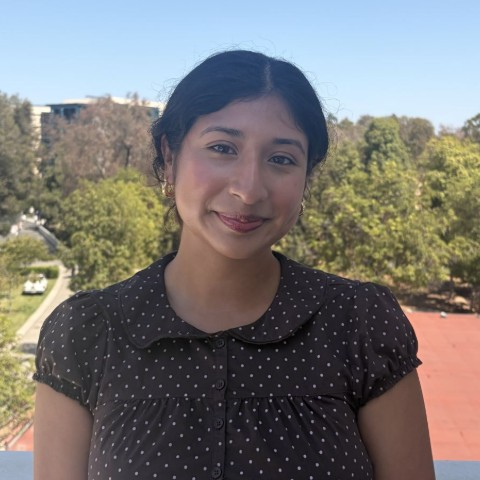
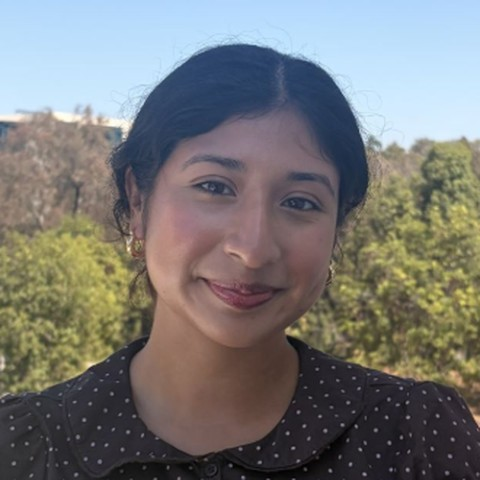
Add scroll and hover transitions, tighten headshot crop
Sections and cards fade up as they scroll into view, the intro
animates in with a stagger, and a scroll progress bar sits at the top.
Cards lift on hover, nav links get an animated underline, and all
motion respects prefers-reduced-motion.

Claude-Session: https://claude.ai/code/session_01RS5iu1uGnsRxJSgfibFL1p

diff --git a/src/App.jsx b/src/App.jsx
@@ -1,5 +1,6 @@
 import './App.css'
 import { FaGithub, FaLinkedin, FaEnvelope } from 'react-icons/fa'
+import { motion, MotionConfig, useScroll, useSpring } from 'framer-motion'
 
 const EMAIL = 'yamontan@uci.edu'
 const GITHUB = 'https://github.com/yanilettemontano'
@@ -163,13 +164,38 @@ const coursework = [
   },
 ]
 
+const reveal = {
+  hidden: { opacity: 0, y: 24 },
+  visible: { opacity: 1, y: 0, transition: { duration: 0.6, ease: [0.22, 1, 0.36, 1] } },
+}
+
+const stagger = {
+  hidden: {},
+  visible: { transition: { staggerChildren: 0.12, delayChildren: 0.1 } },
+}
+
+function Reveal({ as = 'div', children, ...props }) {
+  const Tag = motion[as]
+  return (
+    <Tag variants={reveal} initial="hidden" whileInView="visible" viewport={{ once: true, margin: '-80px' }} {...props}>
+      {children}
+    </Tag>
+  )
+}
+
 function Section({ id, num, title, children }) {
   return (
     <section id={id} className="section">
-      <h2><span className="section-num">{num}</span>{title}</h2>
+      <Reveal as="h2"><span className="section-num">{num}</span>{title}</Reveal>
       {children}
     </section>
   )
+}
+
+function ScrollProgress() {
+  const { scrollYProgress } = useScroll()
+  const scaleX = useSpring(scrollYProgress, { stiffness: 120, damping: 30 })
+  return <motion.div className="scroll-progress" style={{ scaleX }} />
 }
 
 function Tags({ items }) {
@@ -182,7 +208,8 @@ function Tags({ items }) {
 
 function App() {
   return (
-    <>
+    <MotionConfig reducedMotion="user">
+      <ScrollProgress />
       <header className="topbar">
         <div className="topbar-inner">
           <a href="#top" className="brand">Yanilette Montano</a>
@@ -193,32 +220,39 @@ function App() {
       </header>
 
       <main id="top" className="container">
-        <section className="hero">
-          <img src="/images/headshot.jpg" alt="Yanilette Montano" className="headshot" />
-          <div>
-            <h1>Yanilette Montano</h1>
-            <p className="subtitle">Computer Engineering · UC Irvine · Expected March 2028</p>
-            <p className="lede">
+        <motion.section className="hero" variants={stagger} initial="hidden" animate="visible">
+          <motion.img
+            src="/images/headshot.jpg"
+            alt="Yanilette Montano"
+            className="headshot"
+            initial={{ opacity: 0, scale: 0.85, rotate: -6 }}
+            animate={{ opacity: 1, scale: 1, rotate: 0 }}
+            transition={{ duration: 0.8, ease: [0.22, 1, 0.36, 1] }}
+          />
+          <motion.div variants={stagger}>
+            <motion.h1 variants={reveal}>Yanilette Montano</motion.h1>
+            <motion.p variants={reveal} className="subtitle">Computer Engineering · UC Irvine · Expected March 2028</motion.p>
+            <motion.p variants={reveal} className="lede">
               Computer engineering student focused on embedded systems and hardware. I've designed flight
               controller hardware and firmware for a micro air vehicle, built a RISC-V processor in Verilog,
               and worked in the cleanroom at HRL Laboratories.
-            </p>
-            <p className="lede">
+            </motion.p>
+            <motion.p variants={reveal} className="lede">
               More recently I got into quantum networking through research at the Center for Quantum Networks,
               and I'm still growing into the field. I'm looking for firmware, embedded, and hardware
               engineering internships.
-            </p>
-            <div className="links">
+            </motion.p>
+            <motion.div variants={reveal} className="links">
               <a href={`mailto:${EMAIL}`} className="btn btn-primary"><FaEnvelope /> {EMAIL}</a>
               <a href={GITHUB} target="_blank" rel="noreferrer" className="btn"><FaGithub /> GitHub</a>
               <a href={LINKEDIN} target="_blank" rel="noreferrer" className="btn"><FaLinkedin /> LinkedIn</a>
-            </div>
-          </div>
-        </section>
+            </motion.div>
+          </motion.div>
+        </motion.section>
 
         <Section id="projects" num="01" title="Projects">
           {projects.map((p) => (
-            <article key={p.title} className="card project">
+            <Reveal as="article" key={p.title} className="card project">
               <div className="project-body">
                 <h3>{p.title}</h3>
                 <p className="meta">{p.context}</p>
@@ -237,7 +271,7 @@ function App() {
                   <source src={p.video} type="video/mp4" />
                 </video>
               )}
-            </article>
+            </Reveal>
           ))}
 
           <h3 className="subhead">Other projects</h3>
@@ -253,7 +287,7 @@ function App() {
 
         <Section id="experience" num="02" title="Experience">
           {experience.map((e) => (
-            <div key={e.role} className="entry">
+            <Reveal key={e.role} className="entry">
               <div className="entry-head">
                 <h3>{e.role}</h3>
                 <span className="dates">{e.dates}</span>
@@ -262,31 +296,31 @@ function App() {
               <ul className="points">
                 {e.points.map((pt) => <li key={pt}>{pt}</li>)}
               </ul>
-            </div>
+            </Reveal>
           ))}
         </Section>
 
         <Section id="skills" num="03" title="Skills">
           <dl className="skills">
             {skillGroups.map((g) => (
-              <div key={g.label} className="skill-row">
+              <Reveal key={g.label} className="skill-row">
                 <dt>{g.label}</dt>
                 <dd><Tags items={g.items} /></dd>
-              </div>
+              </Reveal>
             ))}
           </dl>
         </Section>
 
         <Section id="research" num="04" title="Research & Publications">
           {research.map((r) => (
-            <div key={r.title} className="entry">
+            <Reveal key={r.title} className="entry">
               <div className="entry-head">
                 <h3>{r.title}</h3>
                 <span className="dates">{r.dates}</span>
               </div>
               <p className="meta">{r.org}</p>
               <p>{r.text}</p>
-            </div>
+            </Reveal>
           ))}
           <div className="entry publication">
             <h3>Publication</h3>
@@ -299,16 +333,16 @@ function App() {
         </Section>
 
         <Section id="coursework" num="05" title="Relevant Coursework">
-          <div className="coursework">
+          <motion.div className="coursework" variants={stagger} initial="hidden" whileInView="visible" viewport={{ once: true, margin: '-80px' }}>
             {coursework.map((c) => (
-              <div key={c.label}>
+              <motion.div key={c.label} variants={reveal}>
                 <h3 className="course-label">{c.label}</h3>
                 <ul>
                   {c.items.map((i) => <li key={i}>{i}</li>)}
                 </ul>
-              </div>
+              </motion.div>
             ))}
-          </div>
+          </motion.div>
           <p className="meta programs">
             Programs: CNSI & UCLA Samueli Semiconductor Program · IBM Global Qiskit Summer School ·
             QNumerics Summer School · CQN Student & Postdoc Retreat
@@ -324,7 +358,7 @@ function App() {
       </main>
 
       <footer className="footer">© {new Date().getFullYear()} Yanilette Montano · Built with React and a lot of coffee ☕</footer>
-    </>
+    </MotionConfig>
   )
 }
 

diff --git a/src/App.css b/src/App.css
@@ -365,3 +365,86 @@ h3 {
     gap: 0;
   }
 }
+
+/* Motion */
+.scroll-progress {
+  position: fixed;
+  top: 0;
+  left: 0;
+  right: 0;
+  height: 3px;
+  background: var(--accent);
+  transform-origin: 0 50%;
+  z-index: 20;
+}
+
+.topbar nav a {
+  position: relative;
+  transition: color 0.2s;
+}
+
+.topbar nav a::after {
+  content: '';
+  position: absolute;
+  left: 0;
+  right: 0;
+  bottom: -3px;
+  height: 2px;
+  background: var(--accent);
+  transform: scaleX(0);
+  transform-origin: left;
+  transition: transform 0.25s ease;
+}
+
+.topbar nav a:hover::after {
+  transform: scaleX(1);
+}
+
+.card {
+  transition: transform 0.3s ease, box-shadow 0.3s ease, border-color 0.3s ease;
+}
+
+.card:hover {
+  transform: translateY(-4px);
+  border-color: var(--accent);
+  box-shadow: 0 12px 28px -12px color-mix(in srgb, var(--accent) 35%, transparent);
+}
+
+.project-media {
+  transition: transform 0.4s ease;
+}
+
+.card:hover img.project-media {
+  transform: scale(1.03);
+}
+
+.btn {
+  transition: border-color 0.15s, background 0.15s, transform 0.15s;
+}
+
+.btn:hover {
+  transform: translateY(-2px);
+}
+
+.tags li {
+  transition: background 0.2s, color 0.2s;
+}
+
+.tags li:hover {
+  background: var(--accent);
+  color: var(--accent-ink);
+}
+
+@media (prefers-reduced-motion: reduce) {
+  html {
+    scroll-behavior: auto;
+  }
+
+  .card,
+  .card:hover,
+  .btn:hover,
+  .card:hover img.project-media {
+    transform: none;
+    transition: none;
+  }
+}

diff --git a/README.md b/README.md
@@ -11,6 +11,7 @@ A clean, single-page portfolio aimed at firmware, embedded systems, and hardware
 ## Tech Stack
 
 - **React** + **Vite**
+- **Framer Motion** for scroll reveals and the intro animation
 - **React Icons** for the GitHub, LinkedIn, and email icons
 - Plain CSS with custom properties (warm cream and terracotta palette, Fraunces + DM Sans type); dark mode follows the visitor's system setting
 
